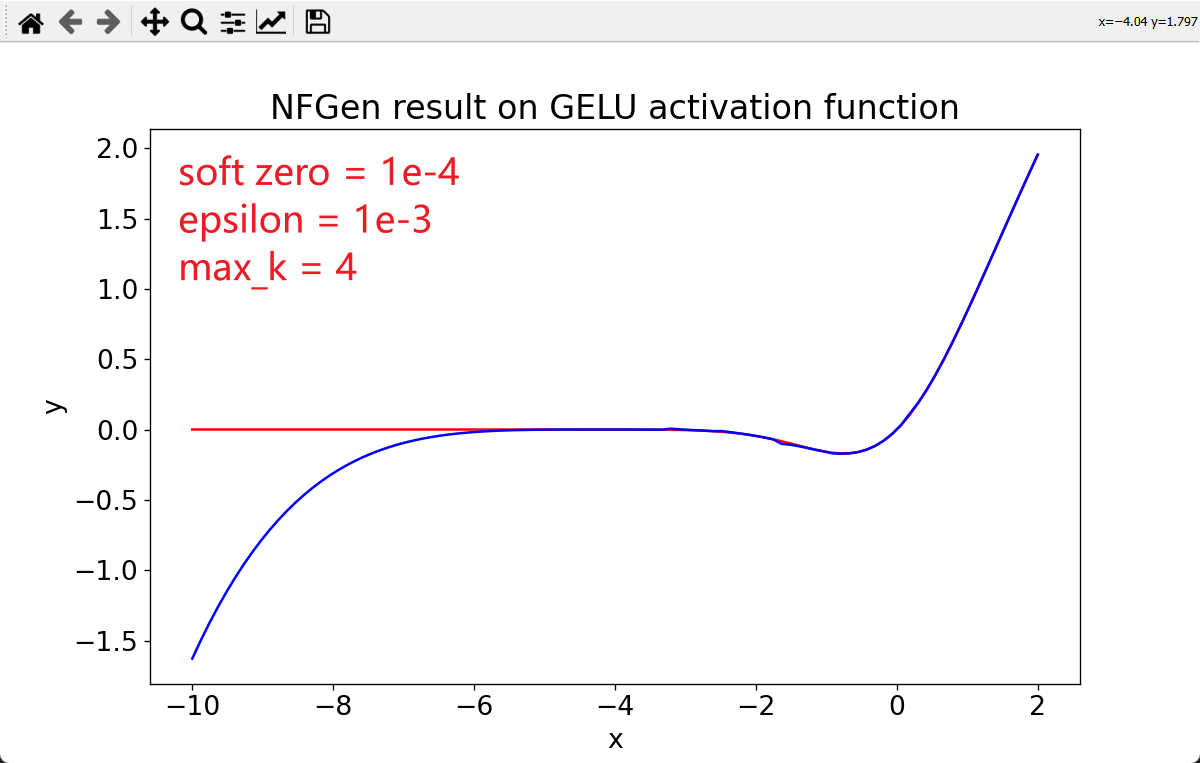
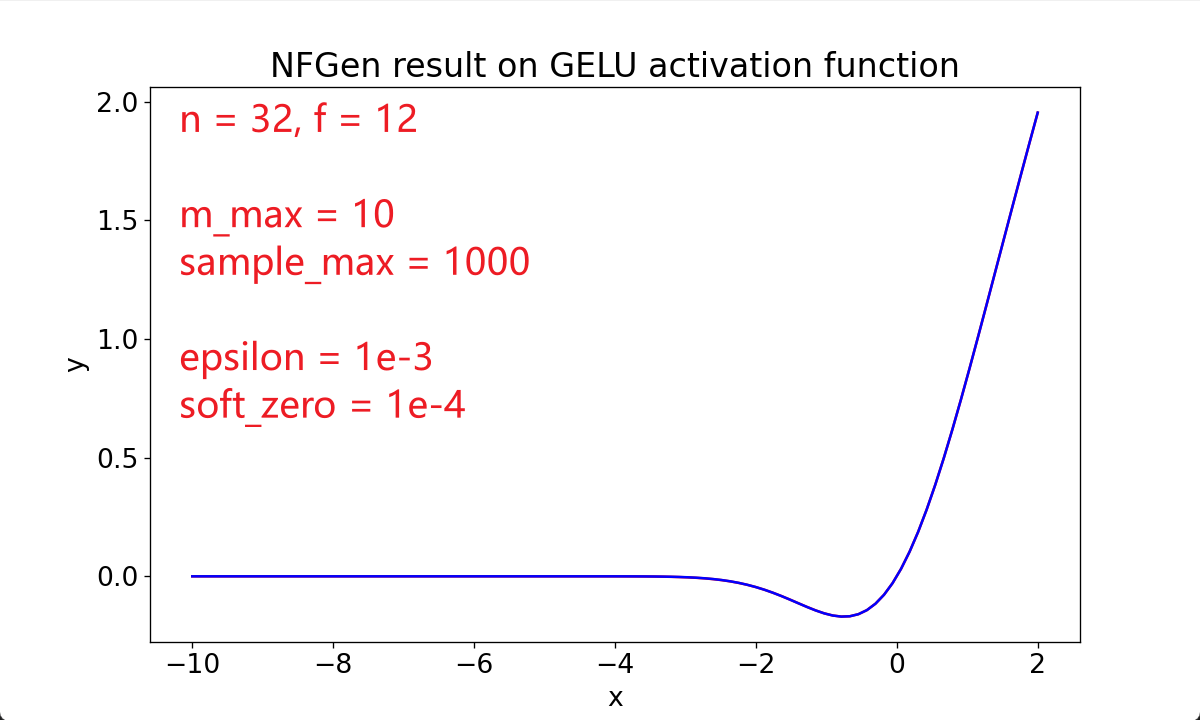
add example GELU [-10, 2]

diff --git a/src/main.cpp b/src/main.cpp
@@ -13,6 +13,7 @@ const double PI = 3.14159265358979323846;
 const double A = 0.044715;
 
 static flp_t gelu(flp_t x);
+static flp_t zero(flp_t x);
 
 int main()
 {
@@ -32,6 +33,14 @@ int main()
 	// Dump Result for python.
 	FILE* fp;
 
+	if (fopen_s(&fp, "result.txt", "a") != 0)
+	{
+		printf("Cannot open 'function.csv' for writing!\n");
+		return 2;
+	}
+	DumpResult(fp, &polys, &divs);
+	fclose(fp);
+
 	if (fopen_s(&fp, "function.csv", "w") != 0)
 	{
 		printf("Cannot open 'function.csv' for writing!\n");
@@ -47,6 +56,11 @@ int main()
 static flp_t gelu(flp_t x)
 {
 	return 0.5 * x * (1 + tanh(sqrt(2.0 / PI) * (x + A * std::pow(x, 3.0))));
+}
+
+static flp_t zero(flp_t x)
+{
+	return 0.0;
 }
 
 #endif
